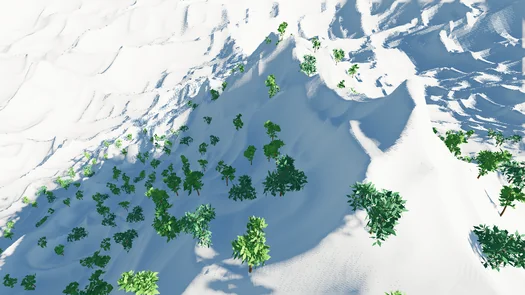
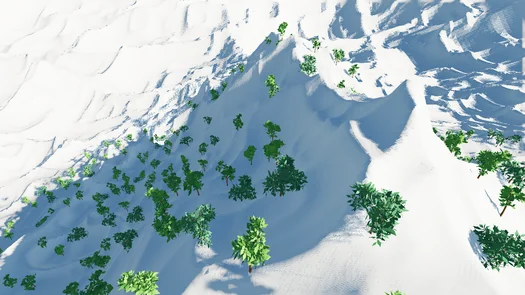
Apply screen-space shadows at every view distance
Remove the near-distance override and CSM range gating. Distance adaptation now changes ray sampling and thickness only. Update diagnostics, regression coverage, documentation and runtime preview.

diff --git a/rendering-sandbox/v05/src/screen_shadow.rs b/rendering-sandbox/v05/src/screen_shadow.rs
@@ -29,7 +29,6 @@ pub struct Settings {
     pub contact_step: f32,
     pub contact_steps: u32,
     pub step_thickness: f32,
-    pub all_distances: bool,
 }
 impl Default for Settings {
     fn default() -> Self {
@@ -52,7 +51,6 @@ impl Default for Settings {
             contact_step: 0.25,
             contact_steps: 4,
             step_thickness: 0.5,
-            all_distances: false,
         }
     }
 }
@@ -62,8 +60,6 @@ struct Params {
     inverse: [[f32; 4]; 4],
     matrix: [[f32; 4]; 4],
     light: [f32; 4],
-    camera: [f32; 4],
-    forward: [f32; 4],
     trace: [f32; 4],
     dimensions: [u32; 4],
     options: [u32; 4],
@@ -222,7 +218,6 @@ impl ScreenShadow {
         s: &SceneSettings,
         c: &Camera,
         full: [u32; 2],
-        csm_end: f32,
         frame: u64,
         timer: &mut GpuProfiler,
     ) {
@@ -232,9 +227,7 @@ impl ScreenShadow {
             inverse: matrix.inverse().to_cols_array_2d(),
             matrix: matrix.to_cols_array_2d(),
             light: crate::scene::light(s).extend(0.).to_array(),
-            camera: c.position.extend(0.).to_array(),
-            forward: c.forward().extend(0.).to_array(),
-            trace: [v.length, v.thickness, v.bias, csm_end],
+            trace: [v.length, v.thickness, v.bias, 0.],
             dimensions: [full[0], full[1], self.size[0], self.size[1]],
             options: [
                 v.enabled as u32,
@@ -242,12 +235,7 @@ impl ScreenShadow {
                 v.counters as u32,
                 v.mode,
             ],
-            display: [
-                v.debug,
-                v.bilinear as u32,
-                (v.all_distances || !s.shadows) as u32,
-                v.jitter as u32,
-            ],
+            display: [v.debug, v.bilinear as u32, 0, v.jitter as u32],
             adaptive: [
                 v.adaptive as u32 as f32,
                 v.reference_distance.max(1.),
@@ -429,7 +417,6 @@ pub fn verify_gpu(d: &wgpu::Device, q: &wgpu::Queue) -> Result<(), wgpu::PollErr
     let mut settings = SceneSettings::default();
     settings.elevation = 0.;
     settings.azimuth = 90.;
-    settings.screen_shadow.all_distances = true;
     settings.screen_shadow.steps = 8;
     settings.screen_shadow.divisor = 4;
     settings.screen_shadow.counters = true;
@@ -442,11 +429,12 @@ pub fn verify_gpu(d: &wgpu::Device, q: &wgpu::Queue) -> Result<(), wgpu::PollErr
     let readback = buffer(d, "検証用マスク", 256 * 16, B::MAP_READ | B::COPY_DST);
     let mut timer = GpuProfiler::new(d, q);
     let mut saved = None;
-    for case in 0..9 {
+    for case in 0..10 {
+        let far = (6..=8).contains(&case);
         settings.screen_shadow.counters = case != 3;
-        settings.screen_shadow.adaptive = case != 6;
+        settings.screen_shadow.adaptive = case != 6 && case != 9;
         settings.screen_shadow.reference_distance = 10.;
-        settings.screen_shadow.thickness = if case >= 6 { 0.2 } else { 6. };
+        settings.screen_shadow.thickness = if far { 0.2 } else { 6. };
         settings.screen_shadow.step_thickness = if case == 8 { 0. } else { 0.5 };
         settings.screen_shadow.jitter = case != 4;
         let mut e = d.create_command_encoder(&Default::default());
@@ -460,7 +448,7 @@ pub fn verify_gpu(d: &wgpu::Device, q: &wgpu::Queue) -> Result<(), wgpu::PollErr
                     depth_ops: Some(wgpu::Operations {
                         load: wgpu::LoadOp::Clear(if case == 0 {
                             0.
-                        } else if case >= 6 {
+                        } else if far {
                             0.001
                         } else {
                             0.1
@@ -473,21 +461,12 @@ pub fn verify_gpu(d: &wgpu::Device, q: &wgpu::Queue) -> Result<(), wgpu::PollErr
                 occlusion_query_set: None,
             });
             if case >= 2 {
-                p.set_pipeline(if case >= 6 { &far_pipeline } else { &pipeline });
+                p.set_pipeline(if far { &far_pipeline } else { &pipeline });
                 p.set_scissor_rect(28, 16, 8, 32);
                 p.draw(0..3, 0..1);
             }
         }
-        screen.encode(
-            q,
-            &mut e,
-            &settings,
-            &camera,
-            [64, 64],
-            256.,
-            case,
-            &mut timer,
-        );
+        screen.encode(q, &mut e, &settings, &camera, [64, 64], case, &mut timer);
         e.copy_texture_to_buffer(
             wgpu::TexelCopyTextureInfo {
                 texture: &screen.mask,
@@ -593,6 +572,12 @@ pub fn verify_gpu(d: &wgpu::Device, q: &wgpu::Queue) -> Result<(), wgpu::PollErr
                 "区間厚み補正なしでは深い侵入を棄却"
             );
         }
+        if case == 9 {
+            assert!(
+                screen.counts.unwrap()[2] > 0,
+                "距離対応OFFでも近景のレイ全体を計算する"
+            );
+        }
         drop(data);
         readback.unmap();
     }
@@ -603,9 +588,9 @@ mod tests {
     use super::*;
     #[test]
     fn params_and_small_dimensions() {
-        assert_eq!(std::mem::size_of::<Params>(), 272);
-        assert_eq!(std::mem::offset_of!(Params, adaptive), 240);
-        assert_eq!(std::mem::offset_of!(Params, contact), 256);
+        assert_eq!(std::mem::size_of::<Params>(), 240);
+        assert_eq!(std::mem::offset_of!(Params, adaptive), 208);
+        assert_eq!(std::mem::offset_of!(Params, contact), 224);
         assert_eq!(dimensions([1920, 1080], 4), [480, 270]);
         assert_eq!(dimensions([17, 9], 4), [5, 3]);
         assert_eq!(dimensions([1, 1], 4), [1, 1]);

diff --git a/rendering-sandbox/v05/src/host/inspector.rs b/rendering-sandbox/v05/src/host/inspector.rs
@@ -309,7 +309,7 @@ impl super::State {
                                 .logarithmic(true)
                                 .text("始点バイアス m"),
                         );
-                        ui.checkbox(&mut p.adaptive, "距離対応＋コンタクト補完");
+                        ui.checkbox(&mut p.adaptive, "距離に応じてレイ長・厚みを変更");
                         ui.collapsing("距離とサンプル配置", |ui| {
                             ui.add(
                                 egui::Slider::new(&mut p.reference_distance, 16.0..=2048.0)
@@ -345,18 +345,17 @@ impl super::State {
                         });
                         ui.checkbox(&mut p.jitter, "レイジッター（IGN）");
                         ui.checkbox(&mut p.bilinear, "Bilinear再構成");
-                        ui.checkbox(&mut p.all_distances, "近景にも長距離成分を合成（比較用）");
                         egui::ComboBox::from_label("合成")
                             .selected_text(
                                 [
-                                    "CSM＋コンタクト・遠景",
+                                    "CSM＋Screen Space Shadow",
                                     "CSMのみ",
                                     "Screen Space Shadowのみ",
                                 ][p.mode as usize],
                             )
                             .show_ui(ui, |ui| {
                                 for (i, label) in [
-                                    "CSM＋コンタクト・遠景",
+                                    "CSM＋Screen Space Shadow",
                                     "CSMのみ",
                                     "Screen Space Shadowのみ",
                                 ]
@@ -373,7 +372,7 @@ impl super::State {
                                     "可視率マスク",
                                     "深度参照数",
                                     "終了理由",
-                                    "コンタクトマスク",
+                                    "初期区間マスク",
                                 ][p.debug as usize],
                             )
                             .show_ui(ui, |ui| {
@@ -382,7 +381,7 @@ impl super::State {
                                     "可視率マスク",
                                     "深度参照数",
                                     "終了理由",
-                                    "コンタクトマスク",
+                                    "初期区間マスク",
                                 ]
                                 .iter()
                                 .enumerate()
@@ -391,7 +390,7 @@ impl super::State {
                                 }
                             });
                         if p.debug == 3 {
-                            ui.small("赤：交差、緑：未交差、青：画面外、灰：CSM範囲内、黒：空");
+                            ui.small("赤：交差、緑：未交差、青：画面外、黒：空");
                         }
                         ui.small(
                             "CSMのみは合成の比較。負荷の比較はScreen Space ShadowをOFFにします",

diff --git a/rendering-sandbox/v05/src/renderer.rs b/rendering-sandbox/v05/src/renderer.rs
@@ -750,8 +750,7 @@ impl Renderer {
             }
             self.foliage.draw(&mut p, 0, false, &self.lighting_group);
         }
-        self.screen
-            .encode(q, e, s, c, self.size, cascades[3].split, self.frame, timer);
+        self.screen.encode(q, e, s, c, self.size, self.frame, timer);
         {
             let mut p = e.begin_render_pass(&wgpu::RenderPassDescriptor {
                 label: Some("ShadowPass"),

diff --git a/rendering-sandbox/v05/src/lib.rs b/rendering-sandbox/v05/src/lib.rs
@@ -108,7 +108,6 @@ pub fn smoke() -> Result<(), Box<dyn std::error::Error>> {
         // 解像度・可視化・合成の全組合せを小さいターゲットで検査する。
         r.resize(&device, [320, 180]);
         s.screen_shadow.counters = true;
-        s.screen_shadow.all_distances = true;
         for divisor in [1, 2, 4] {
             s.screen_shadow.divisor = divisor;
             for mode in 0..3 {

diff --git a/site/content/lab/webgpu/experiments/rendering-sandbox/v05/index.md b/site/content/lab/webgpu/experiments/rendering-sandbox/v05/index.md
@@ -30,11 +30,11 @@ let distance = ss.trace.z + mix(lo, hi, phase);
 各画素のIGNで区間内の位置を決め、始点バイアスを加えます。lo/hiは初期の細かい区間か、後半の二次配置の区間です。ノイズテクスチャは追加せず、静止時は同じ位置を使います。
 
 ```wgsl
-let contact = min(csm, value.y);
-return mix(contact, value.x, weight);
+let visibility = screenMaskAt(pixel);
+return min(csm, visibility);
 ```
 
-value.yは短距離のコンタクト、value.xはレイ全体の可視率です。Forwardの直射光へ適用する前に、CSMと合成します。weightはCSM終端の90%から1へ遷移し、遠方ではレイ全体の可視率を使います。
+全ての距離でレイ全体の可視率を使い、Forwardの直射光へ適用します。CSMと重なる部分は小さい可視率を採用し、同じ影を乗算で二重に暗くしません。
 
 ## 距離に応じたサンプリング
 
@@ -48,15 +48,17 @@ value.yは短距離のコンタクト、value.xはレイ全体の可視率です
 
 ## CSMとの合成
 
-1本のレイから、全体の可視率と最初の細かい区間だけの可視率を同時に得ます。CSM範囲内はmin(CSM,contact)で細かいコンタクトを補完し、CSM終端距離の90%から全体の可視率へ補間して、遠景の影へ切り替えます。直射光だけへ適用し、SkyLightには掛けません。
+Screen Space Shadowは、CSMの範囲内外を問わず全距離で計算・適用します。近景でもレイ全体の可視率を用い、CSM終端での切り替えや距離による適用制限はありません。距離で変わるのはレイ長・サンプル間隔・厚みの設定です。
 
-全体の可視率は既存マスクのR、コンタクトはAへ格納します。追加テクスチャや2本目のレイは使いません。「近景にも長距離成分を合成」は全体の可視率を近景でも適用する比較モードです。CSMがOFFの場合も全体の可視率を使います。
+合成はmin(CSM,Screen Space Shadow)です。CSMがOFFならScreen Space Shadowだけ、Screen Space ShadowがOFFならCSMだけになります。直射光だけへ適用し、SkyLightには掛けません。
+
+全体の可視率はマスクのRに格納します。Aに保持している最初の細かい区間だけの可視率は、サンプリングを確認するための診断用です。Aだけを近景へ適用するような処理は行いません。
 
 ## 可視化と比較
 
 パラメータUIは「ライト」と「シャドウ」を分けています。「シャドウ」の下に「ディレクショナルシャドウ」（CSM・バイアス・PCF・キャスターカリング）と「Screen Space Shadow」を置いています。
 
-可視率マスク、コンタクトマスク、深度参照数、終了理由をメイン画面へ表示できます。終了理由は赤が交差、緑が未交差、青が画面外/投影範囲外、灰が旧固定モードで除外したCSM範囲内、黒が空です。CSMのみ/Screen Space Shadowのみ/合成の比較も可能です。合成切替ではTraceを継続するため、GPU負荷を比較するときはScreen Space Shadow自体をOFFにしてください。
+可視率マスク、初期区間マスク、深度参照数、終了理由をメイン画面へ表示できます。終了理由は赤が交差、緑が未交差、青が画面外/投影範囲外、黒が空です。CSMのみ/Screen Space Shadowのみ/合成の比較も可能です。合成切替ではTraceを継続するため、GPU負荷を比較するときはScreen Space Shadow自体をOFFにしてください。
 
 低解像度マスクはPointまたは4tapのBilinearで参照します。初版には深度境界を考慮した再構成や時間蓄積を入れていません。Bilinearは境界をまたいで影を混ぜるため、シルエット付近で漏れが生じます。
 
